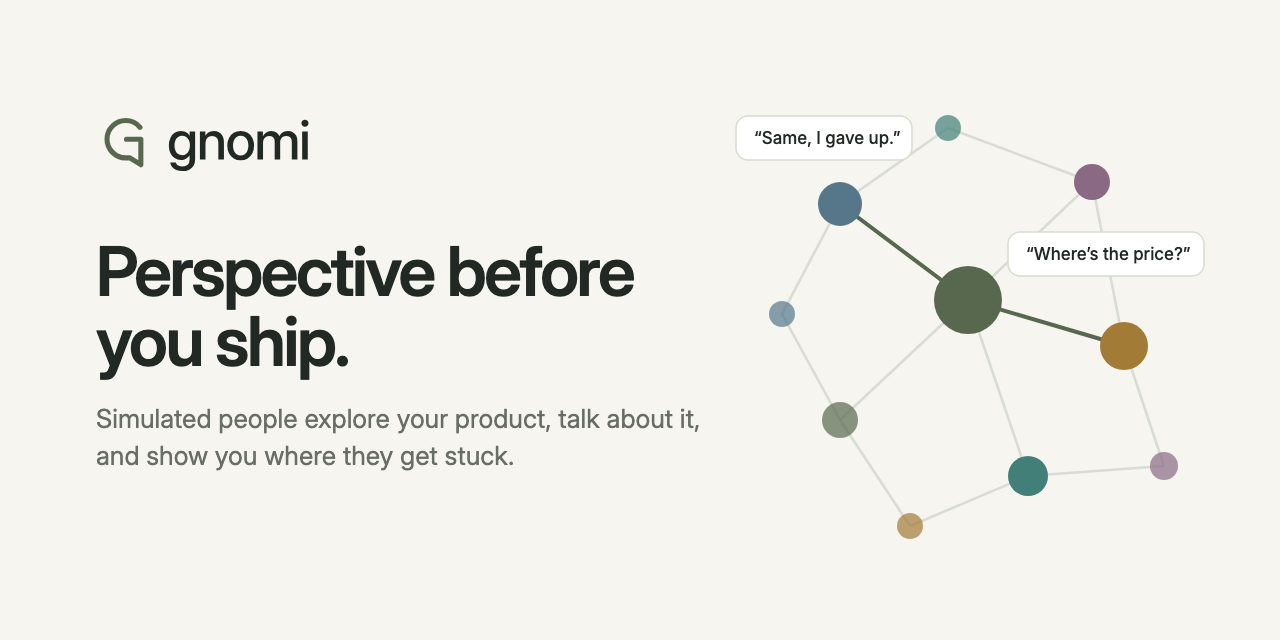
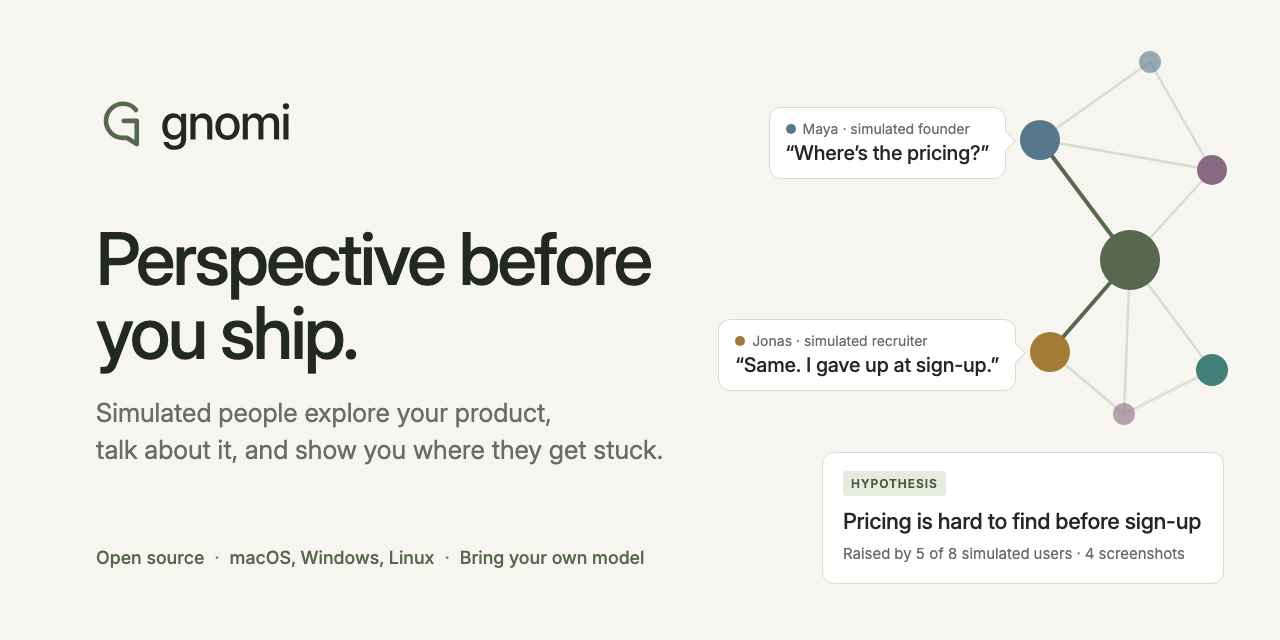
docs(brand): redesign the GitHub social preview
Show the product's loop: two simulated personas' quotes tied to their
nodes, the opinion spreading between them, and a finding labelled as a
hypothesis. Add an open-source line and set the headline at the brand's
weight 500.

diff --git a/assets/brand/social-preview.html b/assets/brand/social-preview.html
@@ -1,5 +1,5 @@
 <!doctype html>
-<!-- Source for social-preview.png (1280 × 640), the repository's GitHub social preview. -->
+<!-- Source for social-preview.png (1280 × 640), the repository's GitHub social preview. Render it at 1280 × 640 with a headless browser. -->
 <html lang="en">
 <head>
 <meta charset="utf-8">
@@ -7,42 +7,62 @@
   @font-face { font-family: 'Inter'; src: url('./fonts/InterVariable.woff2') format('woff2'); font-weight: 100 900; }
   html, body { margin: 0; width: 1280px; height: 640px; overflow: hidden; }
   body { background: #f6f5f0; color: #222823; font-family: 'Inter', sans-serif; position: relative; }
-  .text { position: absolute; left: 96px; top: 112px; width: 620px; }
-  .logo { width: 220px; display: block; }
-  h1 { font-size: 68px; line-height: 1.04; font-weight: 600; letter-spacing: -0.035em; margin: 56px 0 24px; }
-  p { font-size: 26px; line-height: 1.4; color: #686d65; margin: 0; }
-  .graph { position: absolute; right: 56px; top: 64px; }
+  .text { position: absolute; left: 96px; top: 96px; width: 580px; }
+  .logo { width: 200px; display: block; }
+  h1 { font-size: 72px; line-height: 1.04; font-weight: 500; letter-spacing: -0.035em; margin: 64px 0 24px; }
+  .lede { font-size: 26px; line-height: 1.4; color: #686d65; margin: 0; }
+  .meta { position: absolute; left: 96px; bottom: 72px; font-size: 18px; font-weight: 500; color: #58684e; display: flex; gap: 10px; align-items: center; }
+  .meta span + span::before { content: '·'; color: #87917d; margin-right: 10px; }
+  .graph { position: absolute; left: 0; top: 0; }
+  .bubble { position: absolute; background: #fff; border: 1.5px solid #d8dcd2; border-radius: 12px; padding: 12px 16px 13px; }
+  .bubble::after { content: ''; position: absolute; right: -8px; top: 26px; width: 13px; height: 13px; background: #fff; border: 1.5px solid #d8dcd2; border-left: 0; border-bottom: 0; transform: rotate(45deg); }
+  .who { font-size: 14px; color: #686d65; display: flex; align-items: center; gap: 7px; margin-bottom: 4px; }
+  .who i { width: 10px; height: 10px; border-radius: 50%; display: inline-block; }
+  .quote { font-size: 20px; font-weight: 500; letter-spacing: -0.01em; white-space: nowrap; }
+  .card { position: absolute; right: 56px; top: 452px; width: 360px; background: #fff; border: 1.5px solid #d8dcd2; border-radius: 12px; padding: 18px 20px 20px; }
+  .chip { display: inline-block; background: #e7ebdd; color: #47573e; font-size: 12px; font-weight: 600; letter-spacing: 0.08em; padding: 5px 8px; border-radius: 4px; }
+  .card h2 { font-size: 22px; line-height: 1.25; font-weight: 500; letter-spacing: -0.015em; margin: 12px 0 8px; }
+  .card p { font-size: 15px; color: #686d65; margin: 0; font-feature-settings: 'tnum'; }
 </style>
 </head>
 <body>
   <div class="text">
     <img class="logo" src="./gnomi-logo.svg" alt="Gnomi">
     <h1>Perspective before you ship.</h1>
-    <p>Simulated people explore your product, talk about it, and show you where they get stuck.</p>
+    <p class="lede">Simulated people explore your product,<br>talk about it, and show you where they get stuck.</p>
   </div>
-  <svg class="graph" width="512" height="512" viewBox="0 0 512 512" aria-hidden="true">
+  <div class="meta"><span>Open source</span><span>macOS, Windows, Linux</span><span>Bring your own model</span></div>
+
+  <svg class="graph" width="1280" height="640" viewBox="0 0 1280 640" aria-hidden="true">
     <g stroke="#d8dcd2" stroke-width="2.5">
-      <line x1="256" y1="236" x2="128" y2="140"/><line x1="256" y1="236" x2="380" y2="118"/>
-      <line x1="256" y1="236" x2="412" y2="282"/><line x1="256" y1="236" x2="316" y2="412"/>
-      <line x1="256" y1="236" x2="128" y2="356"/><line x1="128" y1="140" x2="70" y2="250"/>
-      <line x1="70" y1="250" x2="128" y2="356"/><line x1="380" y1="118" x2="412" y2="282"/>
-      <line x1="412" y1="282" x2="452" y2="402"/><line x1="316" y1="412" x2="452" y2="402"/>
-      <line x1="128" y1="356" x2="198" y2="462"/><line x1="198" y1="462" x2="316" y2="412"/>
-      <line x1="128" y1="140" x2="236" y2="64"/><line x1="236" y1="64" x2="380" y2="118"/>
+      <line x1="1040" y1="140" x2="1150" y2="62"/><line x1="1150" y1="62" x2="1212" y2="170"/>
+      <line x1="1040" y1="140" x2="1212" y2="170"/><line x1="1130" y1="260" x2="1212" y2="170"/>
+      <line x1="1130" y1="260" x2="1212" y2="370"/><line x1="1212" y1="370" x2="1124" y2="414"/>
+      <line x1="1050" y1="352" x2="1124" y2="414"/><line x1="1130" y1="260" x2="1124" y2="414"/>
     </g>
-    <g stroke="#58684e" stroke-width="4"><line x1="256" y1="236" x2="412" y2="282"/><line x1="256" y1="236" x2="128" y2="140"/></g>
-    <circle cx="256" cy="236" r="34" fill="#58684e"/>
-    <circle cx="128" cy="140" r="22" fill="#56768a"/><circle cx="380" cy="118" r="18" fill="#8a6a83"/>
-    <circle cx="412" cy="282" r="24" fill="#a27b36"/><circle cx="316" cy="412" r="20" fill="#417f78"/>
-    <circle cx="128" cy="356" r="18" fill="#58684e" opacity="0.7"/><circle cx="70" cy="250" r="13" fill="#56768a" opacity="0.7"/>
-    <circle cx="452" cy="402" r="14" fill="#8a6a83" opacity="0.7"/><circle cx="198" cy="462" r="13" fill="#a27b36" opacity="0.7"/>
-    <circle cx="236" cy="64" r="13" fill="#417f78" opacity="0.7"/>
-    <g font-family="Inter, sans-serif" font-size="17" font-weight="500">
-      <rect x="296" y="168" width="196" height="44" rx="12" fill="#ffffff" stroke="#d8dcd2" stroke-width="1.5"/>
-      <text x="314" y="196" fill="#222823">“Where’s the price?”</text>
-      <rect x="24" y="52" width="176" height="44" rx="12" fill="#ffffff" stroke="#d8dcd2" stroke-width="1.5"/>
-      <text x="42" y="80" fill="#222823">“Same, I gave up.”</text>
-    </g>
+    <g stroke="#58684e" stroke-width="4"><line x1="1040" y1="140" x2="1130" y2="260"/><line x1="1130" y1="260" x2="1050" y2="352"/></g>
+    <circle cx="1130" cy="260" r="30" fill="#58684e"/>
+    <circle cx="1040" cy="140" r="20" fill="#56768a"/>
+    <circle cx="1050" cy="352" r="20" fill="#a27b36"/>
+    <circle cx="1212" cy="170" r="15" fill="#8a6a83"/>
+    <circle cx="1212" cy="370" r="16" fill="#417f78"/>
+    <circle cx="1150" cy="62" r="11" fill="#56768a" opacity="0.6"/>
+    <circle cx="1124" cy="414" r="11" fill="#8a6a83" opacity="0.6"/>
   </svg>
+
+  <div class="bubble" style="right: 274px; top: 107px;">
+    <div class="who"><i style="background:#56768a"></i>Maya · simulated founder</div>
+    <div class="quote">“Where’s the pricing?”</div>
+  </div>
+  <div class="bubble" style="right: 264px; top: 319px;">
+    <div class="who"><i style="background:#a27b36"></i>Jonas · simulated recruiter</div>
+    <div class="quote">“Same. I gave up at sign-up.”</div>
+  </div>
+
+  <div class="card">
+    <span class="chip">HYPOTHESIS</span>
+    <h2>Pricing is hard to find before sign-up</h2>
+    <p>Raised by 5 of 8 simulated users · 4 screenshots</p>
+  </div>
 </body>
 </html>
